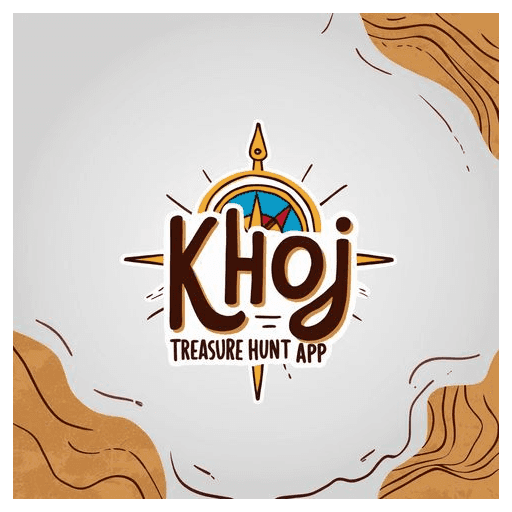
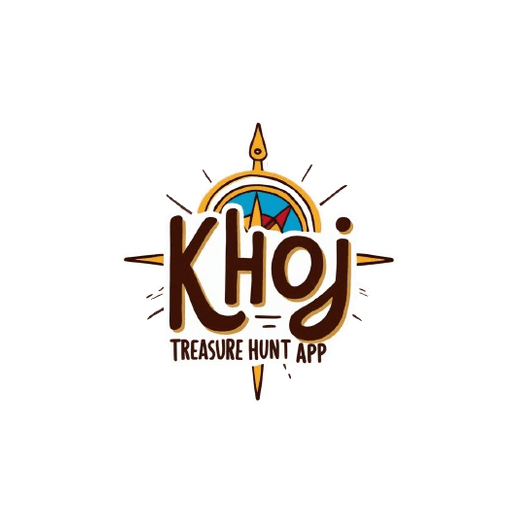
Refactor: Update PWA assets and dependencies
This commit updates the PWA asset to use a new logo without a background and adjusts dependencies in package-lock.json.

diff --git a/frontend/pwa-assets.config.ts b/frontend/pwa-assets.config.ts
@@ -8,5 +8,5 @@ export default defineConfig({
         preset: '2023',
     },
     preset,
-    images: ['public/khoj-logo.jpg'],
+    images: ['public/khoj-logo-no-bg.png'],
 })
